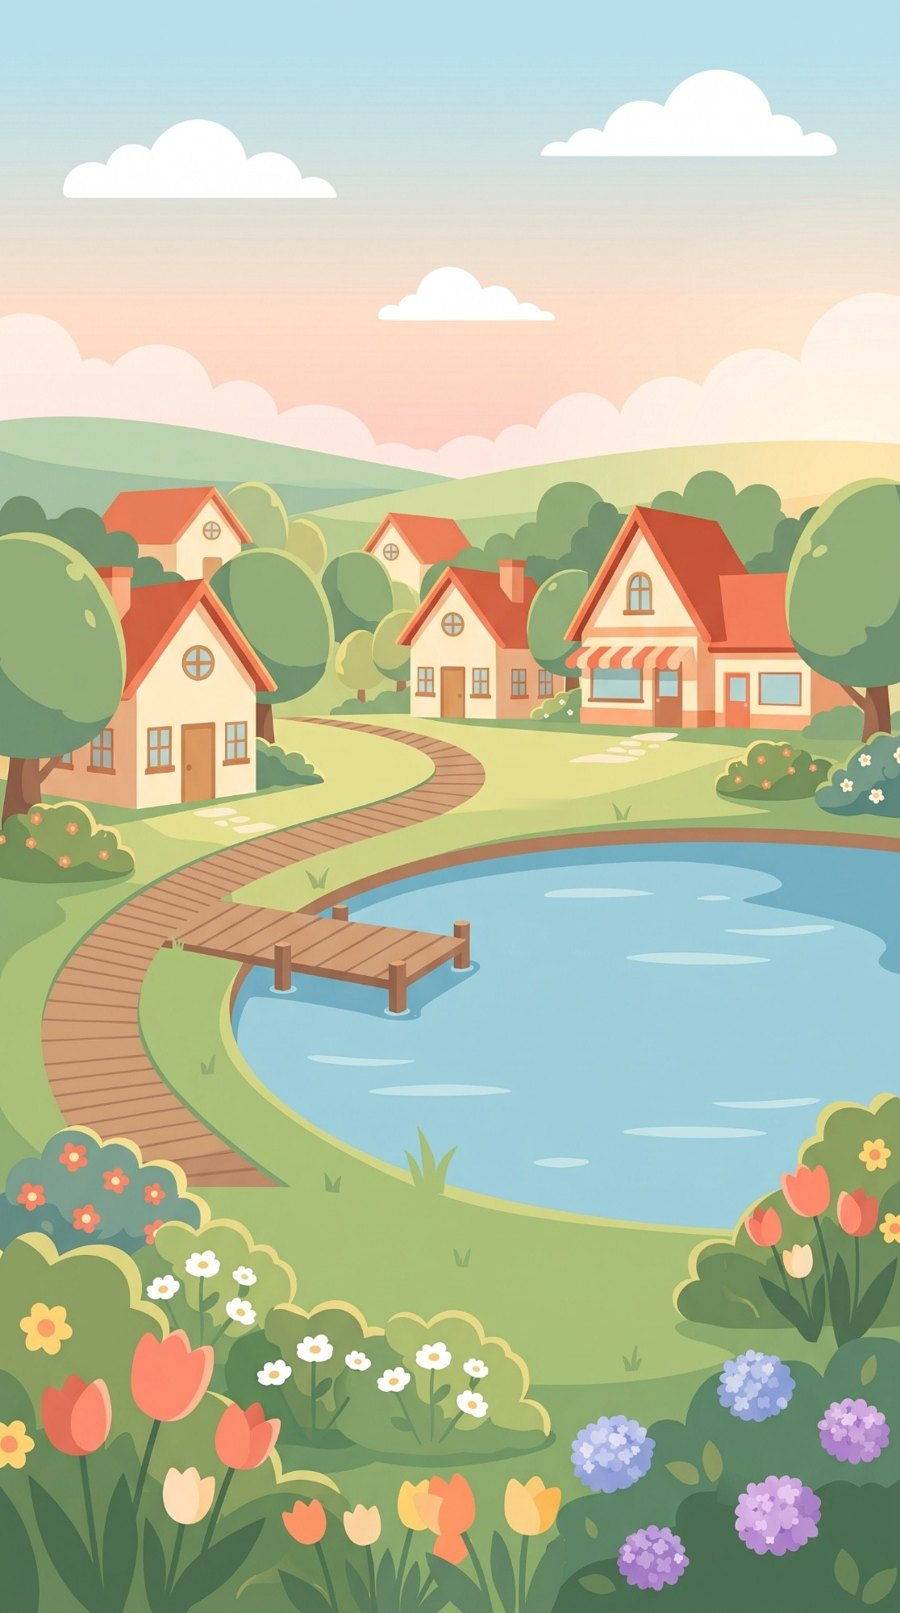
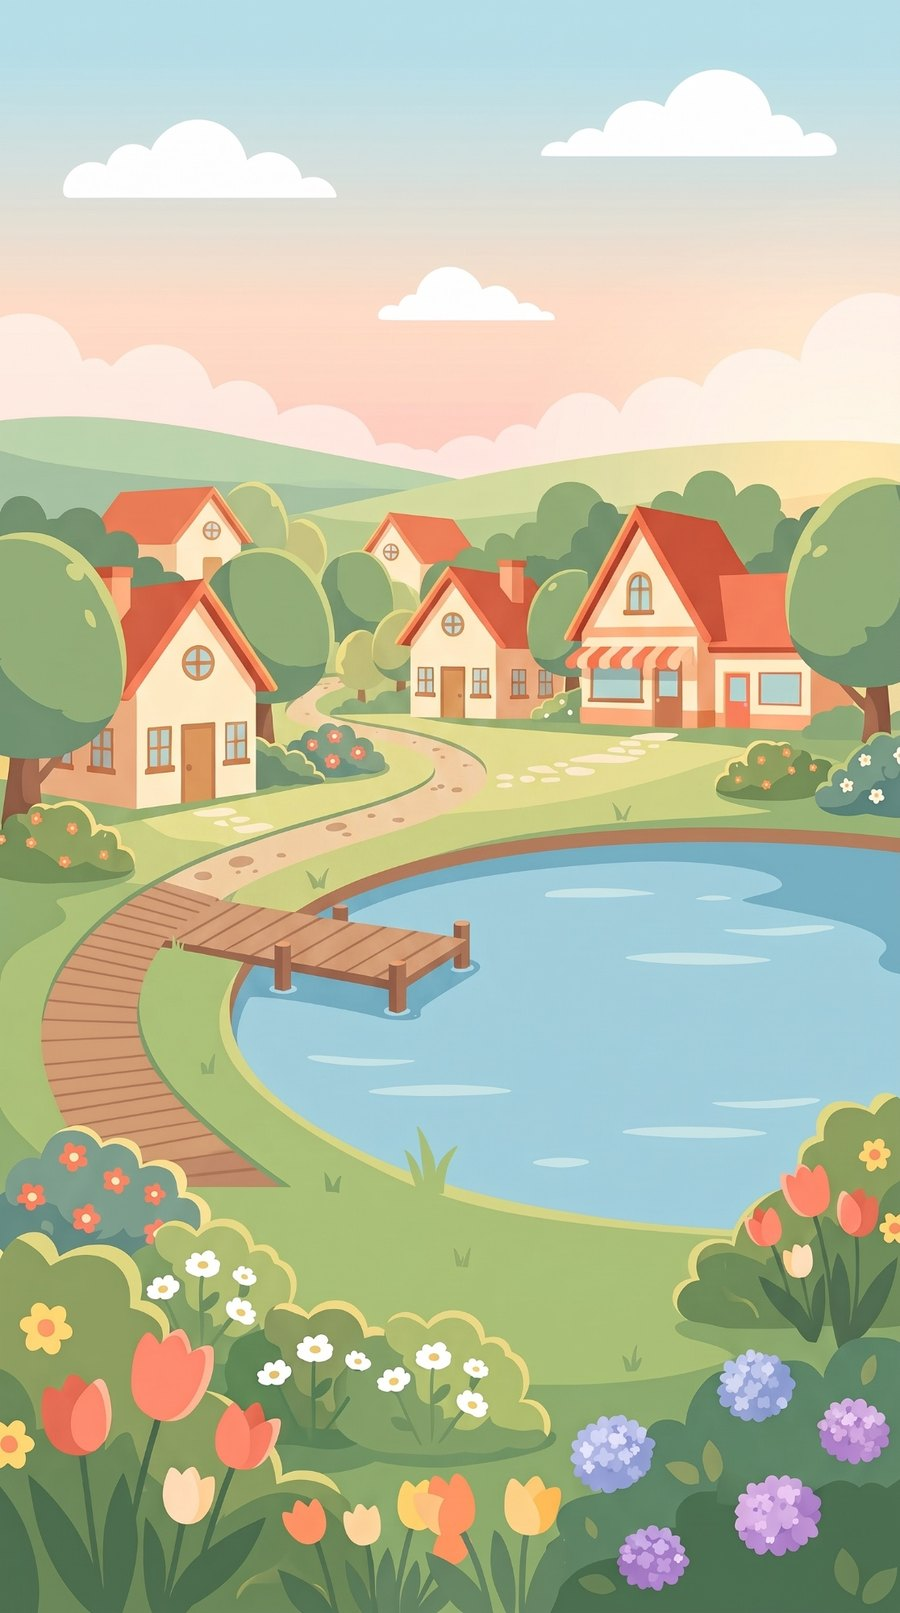
Illustrations du Drive : chat, crocodile, lapin, un œuf par animal et Sunnyville
- Découpe des planches de poses (9 poses par animal, contour blanc du lapin retiré)
- Chaque animal éclôt de son propre œuf (5 étapes détourées)
- Clairebourg : lac sans renard pour l'accueil, centre-ville pour l'onglet ville
- Sunnyville illustrée : elle devient disponible au choix
- CLAUDE.md et README à jour

Claude-Session: https://claude.ai/code/session_01Un3Qe5cpyhmR9wasp3TzLC

Changed region(s): [[0.1867, 0.403, 0.6533, 0.558]]

diff --git a/app/src/illustrations/registre.ts b/app/src/illustrations/registre.ts
@@ -30,35 +30,100 @@ const COMPAGNONS: Record<EspeceId, Images<Pose>> = {
     aventure: require('../../assets/compagnons/renard/aventure.png'),
     celebration: require('../../assets/compagnons/renard/celebration.png'),
   },
-  chat: {},
-  crocodile: {},
-  lapin: {},
+  chat: {
+    salut: require('../../assets/compagnons/chat/salut.png'),
+    neutre: require('../../assets/compagnons/chat/neutre.png'),
+    content: require('../../assets/compagnons/chat/content.png'),
+    excite: require('../../assets/compagnons/chat/excite.png'),
+    dort: require('../../assets/compagnons/chat/dort.png'),
+    reconfort: require('../../assets/compagnons/chat/reconfort.png'),
+    fier: require('../../assets/compagnons/chat/fier.png'),
+    aventure: require('../../assets/compagnons/chat/aventure.png'),
+    celebration: require('../../assets/compagnons/chat/celebration.png'),
+  },
+  crocodile: {
+    salut: require('../../assets/compagnons/crocodile/salut.png'),
+    neutre: require('../../assets/compagnons/crocodile/neutre.png'),
+    content: require('../../assets/compagnons/crocodile/content.png'),
+    excite: require('../../assets/compagnons/crocodile/excite.png'),
+    dort: require('../../assets/compagnons/crocodile/dort.png'),
+    reconfort: require('../../assets/compagnons/crocodile/reconfort.png'),
+    fier: require('../../assets/compagnons/crocodile/fier.png'),
+    aventure: require('../../assets/compagnons/crocodile/aventure.png'),
+    celebration: require('../../assets/compagnons/crocodile/celebration.png'),
+  },
+  lapin: {
+    salut: require('../../assets/compagnons/lapin/salut.png'),
+    neutre: require('../../assets/compagnons/lapin/neutre.png'),
+    content: require('../../assets/compagnons/lapin/content.png'),
+    excite: require('../../assets/compagnons/lapin/excite.png'),
+    dort: require('../../assets/compagnons/lapin/dort.png'),
+    reconfort: require('../../assets/compagnons/lapin/reconfort.png'),
+    fier: require('../../assets/compagnons/lapin/fier.png'),
+    aventure: require('../../assets/compagnons/lapin/aventure.png'),
+    celebration: require('../../assets/compagnons/lapin/celebration.png'),
+  },
 };
 
-/** Les états de l'œuf. Les 3 premiers sont communs à tous les animaux. */
-const OEUF = {
-  etats: [
-    require('../../assets/oeufs/oeuf-1-intact.png'),
-    require('../../assets/oeufs/oeuf-2-fissure.png'),
-    require('../../assets/oeufs/oeuf-3-craquele.png'),
-  ] as ImageSourcePropType[],
-  /** L'animal qui sort de l'œuf (propre à chaque animal). */
-  eclosion: {
-    renard: require('../../assets/oeufs/renard-eclosion.png'),
-  } as Images<EspeceId>,
-  /** L'animal juste né, au milieu des coquilles. */
-  ne: {
-    renard: require('../../assets/oeufs/renard-ne.png'),
-  } as Images<EspeceId>,
+/**
+ * L'œuf de chaque animal : 3 états à toucher (intact → fissuré → craquelé),
+ * puis l'éclosion (l'animal sort la tête) et la naissance (au milieu des coquilles).
+ */
+type Oeuf = { etats: ImageSourcePropType[]; eclosion?: ImageSourcePropType; ne?: ImageSourcePropType };
+const OEUFS: Record<EspeceId, Oeuf> = {
+  renard: {
+    etats: [
+      require('../../assets/oeufs/renard-1-intact.png'),
+      require('../../assets/oeufs/renard-2-fissure.png'),
+      require('../../assets/oeufs/renard-3-craquele.png'),
+    ],
+    eclosion: require('../../assets/oeufs/renard-eclosion.png'),
+    ne: require('../../assets/oeufs/renard-ne.png'),
+  },
+  chat: {
+    etats: [
+      require('../../assets/oeufs/chat-1-intact.png'),
+      require('../../assets/oeufs/chat-2-fissure.png'),
+      require('../../assets/oeufs/chat-3-craquele.png'),
+    ],
+    eclosion: require('../../assets/oeufs/chat-eclosion.png'),
+    ne: require('../../assets/oeufs/chat-ne.png'),
+  },
+  crocodile: {
+    etats: [
+      require('../../assets/oeufs/crocodile-1-intact.png'),
+      require('../../assets/oeufs/crocodile-2-fissure.png'),
+      require('../../assets/oeufs/crocodile-3-craquele.png'),
+    ],
+    eclosion: require('../../assets/oeufs/crocodile-eclosion.png'),
+    ne: require('../../assets/oeufs/crocodile-ne.png'),
+  },
+  lapin: {
+    etats: [
+      require('../../assets/oeufs/lapin-1-intact.png'),
+      require('../../assets/oeufs/lapin-2-fissure.png'),
+      require('../../assets/oeufs/lapin-3-craquele.png'),
+    ],
+    eclosion: require('../../assets/oeufs/lapin-eclosion.png'),
+    ne: require('../../assets/oeufs/lapin-ne.png'),
+  },
 };
 
-/** Illustrations des villes : « portrait » pour l'accueil, « paysage » pour les cartes. */
-const VILLES: Record<VilleId, Images<'portrait' | 'paysage'>> = {
+/**
+ * Illustrations des villes :
+ * « portrait » pour l'accueil, « paysage » pour les cartes, « centre » pour l'onglet de la ville.
+ */
+type FormatVille = 'portrait' | 'paysage' | 'centre';
+const VILLES: Record<VilleId, Images<FormatVille>> = {
   clairebourg: {
     portrait: require('../../assets/villes/clairebourg/portrait.jpg'),
     paysage: require('../../assets/villes/clairebourg/paysage.jpg'),
+    centre: require('../../assets/villes/clairebourg/centre.jpg'),
   },
-  sunnyville: {},
+  sunnyville: {
+    portrait: require('../../assets/villes/sunnyville/portrait.jpg'),
+    paysage: require('../../assets/villes/sunnyville/paysage.jpg'),
+  },
 };
 
 /** Objets de la boutique, par id (voir src/config/boutique.ts). */
@@ -72,9 +137,11 @@ export function imageCompagnon(espece: EspeceId, pose: Pose): ImageSourcePropTyp
   return images[pose] ?? images.neutre;
 }
 
-export const imagesOeuf = () => OEUF.etats;
-export const imageEclosion = (espece: EspeceId) => OEUF.eclosion[espece];
-export const imageNaissance = (espece: EspeceId) => OEUF.ne[espece] ?? imageCompagnon(espece, 'salut');
-export const imageVille = (ville: VilleId, format: 'portrait' | 'paysage') =>
+/** Les états de l'œuf à toucher ; un animal sans œuf dessiné emprunte celui du renard. */
+export const imagesOeuf = (espece: EspeceId) => (OEUFS[espece].etats.length ? OEUFS[espece] : OEUFS.renard).etats;
+export const imageEclosion = (espece: EspeceId) => OEUFS[espece].eclosion;
+export const imageNaissance = (espece: EspeceId) => OEUFS[espece].ne ?? imageCompagnon(espece, 'salut');
+/** Image d'une ville ; si le format demandé manque, on prend le plus proche. */
+export const imageVille = (ville: VilleId, format: FormatVille) =>
   VILLES[ville][format] ?? VILLES[ville].portrait ?? VILLES[ville].paysage;
 export const imageObjet = (id: string) => BOUTIQUE[id];

diff --git a/app/src/app/(demarrage)/oeuf.tsx b/app/src/app/(demarrage)/oeuf.tsx
@@ -29,9 +29,6 @@ import { compagnonParId } from '@/config/compagnons';
 import { couleurs, espace } from '@/config/theme';
 import { useApp } from '@/store/etat';
 
-/** Nombre de touchers avant l'éclosion (= nombre d'images d'œuf). */
-const TOUCHERS = imagesOeuf().length;
-
 type Phase = 'oeuf' | 'eclosion' | 'ne';
 
 const vibrer = (style: Haptics.ImpactFeedbackStyle) => {
@@ -42,6 +39,9 @@ export default function Oeuf() {
   const { etat } = useApp();
   const espece = etat.compagnon?.espece ?? 'renard';
   const infos = compagnonParId(espece);
+  // Chaque animal a son propre œuf ; nombre de touchers avant l'éclosion = nombre d'images d'œuf.
+  const etatsOeuf = imagesOeuf(espece);
+  const TOUCHERS = etatsOeuf.length;
 
   const [touchers, setTouchers] = useState(0);
   const [phase, setPhase] = useState<Phase>('oeuf');
@@ -103,7 +103,7 @@ export default function Oeuf() {
     transform: [{ translateY: flottement.value }, { rotate: `${rotation.value}deg` }, { scale: echelle.value }],
   }));
 
-  const imageOeuf = imagesOeuf()[Math.min(touchers, TOUCHERS - 1)];
+  const imageOeuf = etatsOeuf[Math.min(touchers, TOUCHERS - 1)];
   const eclosion = imageEclosion(espece);
   const naissance = imageNaissance(espece);
 
@@ -142,7 +142,7 @@ export default function Oeuf() {
             (eclosion ? (
               <Image source={eclosion} style={styles.image} contentFit="contain" />
             ) : (
-              <Image source={imagesOeuf()[TOUCHERS - 1]} style={styles.image} contentFit="contain" />
+              <Image source={etatsOeuf[TOUCHERS - 1]} style={styles.image} contentFit="contain" />
             ))}
           {phase === 'ne' &&
             (naissance ? (

diff --git a/app/src/app/(onglets)/ville.tsx b/app/src/app/(onglets)/ville.tsx
@@ -30,7 +30,7 @@ export default function Ville() {
   const { etat } = useApp();
   if (!etat.villeId || !etat.compagnon) return null;
   const ville = villeParId(etat.villeId);
-  const image = imageVille(ville.id, 'paysage');
+  const image = imageVille(ville.id, 'centre');
   const nom = etat.compagnon.nom;
   const dort = estEndormi(etat.rythme);
   const suivi = rechercheDuCompagnon(etat);
@@ -88,7 +88,7 @@ export default function Ville() {
 const styles = StyleSheet.create({
   contenu: { padding: espace.l, gap: espace.m, paddingBottom: espace.xxl },
   titre: { fontFamily: polices.titre, fontSize: 28, fontWeight: '800', color: couleurs.brun },
-  carte: { height: 210, borderRadius: arrondis.l, overflow: 'hidden', justifyContent: 'flex-end' },
+  carte: { height: 330, borderRadius: arrondis.l, overflow: 'hidden', justifyContent: 'flex-end' },
   compagnon: { alignItems: 'center', paddingBottom: 6 },
   souvenir: { backgroundColor: couleurs.carte, borderRadius: arrondis.m, borderWidth: 1, borderColor: couleurs.ligne, padding: espace.l, gap: 4 },
   souvenirTitre: { fontSize: 12, fontWeight: '800', color: couleurs.renardFonce, textTransform: 'uppercase', letterSpacing: 0.4 },

diff --git a/app/src/config/villes.ts b/app/src/config/villes.ts
@@ -2,7 +2,7 @@
  * LES VILLES
  * Une ville n'est pas un simple fond d'écran : c'est l'univers où le compagnon vit,
  * se déplace, visite des lieux et avance dans sa propre carrière.
- * Les images sont déclarées dans src/assets/registre.ts.
+ * Les images sont déclarées dans src/illustrations/registre.ts.
  */
 
 export type VilleId = 'clairebourg' | 'sunnyville';

diff --git a/CLAUDE.md b/CLAUDE.md
@@ -5,11 +5,12 @@
 - **Phase 0 (analyse et plan) : terminée et validée.** Stack choisie : **Expo (React Native)**, pour tester sur iPhone avec Expo Go, sans Mac.
 - **Maquette HTML** (`maquette/`) : première exploration visuelle, ne plus la faire évoluer. La référence est désormais l'app.
 - **App Expo** (`app/`) : application complète et fonctionnelle (données sur le téléphone) : démarrage, tâches, pièces, énergie, aventures, candidatures, Shop, ville, « J'ai décroché ! », aventure professionnelle, Compte, Ziggy+ (voir section 10).
-- Prochaines étapes : brancher les illustrations et animations Dimini, puis les vrais services (connexion, paiement App Store, notifications, compte en ligne).
+- **Illustrations du Drive branchées** : les 4 compagnons (9 poses chacun), l'œuf propre à chaque animal (5 étapes), Clairebourg (lac pour l'accueil, centre-ville pour l'onglet ville) et Sunnyville (place à la fontaine).
+- Prochaines étapes : les animations Dimini, puis les vrais services (connexion, paiement App Store, notifications, compte en ligne).
 
 Avant tout gros changement : proposer un plan et attendre ma validation (section 8).
 
-**Où se trouve le travail :** tout est sur la branche `claude/youthful-hopper-ls2cpi`. La branche `main` contient encore la toute première version de ce fichier, tant que la branche n'y est pas fusionnée.
+**Où se trouve le travail :** la branche `main` est la référence. Chaque nouvelle étape est préparée sur la branche `claude/youthful-hopper-ls2cpi`, puis fusionnée dans `main`.
 
 ---
 
@@ -101,7 +102,7 @@ Dans la navigation entre Candidatures et Clairebourg. Chapeaux, vêtements, acce
 ### 5.8 Les villes
 2 villes :
 - **Clairebourg** (campagne, nom écrit exactement ainsi) : petite ville française fictive, illustrée — boulangerie, librairie, studio, agence, café, parc.
-- **Sunnyville** (grande ville) : immeubles, bureaux, commerces, transports. Elle s'affiche « Bientôt » tant que son illustration n'existe pas ; ses lieux actuels (bureaux, start-up, agence de com, café du métro, parc) sont provisoires.
+- **Sunnyville** (grande ville) : immeubles, bureaux, commerces, transports. Illustrée (place à la fontaine, cafés, commerces) et disponible au choix ; ses lieux actuels (bureaux, start-up, agence de com, café du métro, parc) sont provisoires. Les panneaux de son illustration sont en anglais (« To the Market », « City Library ») : à franciser dans une prochaine version de l'image.
 L'architecture permet d'ajouter d'autres villes plus tard dans `app/src/config/villes.ts`.
 
 **Une ville n'est pas un fond d'écran.** Le compagnon doit pouvoir s'y déplacer, visiter des lieux, vivre des événements, rencontrer des personnages et progresser professionnellement, **en miroir de l'utilisateur** : l'utilisateur a un entretien → le compagnon aussi, dans un lieu de sa ville ; l'utilisateur décroche un poste → le compagnon aussi, avec une grande célébration.
@@ -187,7 +188,7 @@ Chaque tâche rapporte des **pièces** (valeurs ci-dessous, réglables dans `app
 ## 10. Architecture technique (app/)
 - **Expo SDK 57, Expo Router, TypeScript.** Routes dans `app/src/app/` : `(demarrage)/` (présentation, connexion, onboarding), `(onglets)/` (accueil, candidatures, boutique = Shop, ville, compte), `candidature/[id]`, `compte/*` (profil, parametres, confidentialite, portefeuille), et les fenêtres `aventure`, `decroche`, `aventure-pro`, `nouvelle-candidature`, `ziggy-plus`.
 - **Réglages** dans `app/src/config/` : `theme`, `taches`, `energie`, `aventures`, `compagnons`, `villes`, `boutique`, `abonnement`, `candidatures`.
-- **Illustrations** : un seul registre, `app/src/illustrations/registre.ts`. Fichiers dans `app/assets/` (`compagnons/<animal>/<pose>.png`, `oeufs/`, `villes/<ville>/portrait.jpg` et `paysage.jpg`). Une image manquante affiche un visuel de secours. Les animations définitives (Lottie ou Rive) se brancheront dans `app/src/components/Compagnon.tsx`.
+- **Illustrations** : un seul registre, `app/src/illustrations/registre.ts`. Fichiers dans `app/assets/` : `compagnons/<animal>/<pose>.png` ; `oeufs/<animal>-1-intact.png`, `-2-fissure`, `-3-craquele`, `-eclosion`, `-ne` ; `villes/<ville>/portrait.jpg` (accueil), `paysage.jpg` (cartes) et `centre.jpg` (onglet ville, facultatif). Une image manquante affiche un visuel de secours. Les animations définitives (Lottie ou Rive) se brancheront dans `app/src/components/Compagnon.tsx`.
 - **Données** : un seul état (`app/src/store/`), sauvegardé sur le téléphone ; les anciennes sauvegardes sont migrées automatiquement. Logique métier dans `app/src/logique/` (tâches du jour, vie du compagnon, rythme, dates).
 - **Services** (`app/src/services/`) : connexion (bouchons à remplacer), abonnement (achat App Store à brancher), compte et RGPD (export, suppression), futur simulateur d'entretien.
 - Avant de dire qu'une étape est terminée : `npx tsc --noEmit` et `npx eslint src` sans erreur, et parcours testé.

diff --git a/app/README.md b/app/README.md
@@ -47,8 +47,8 @@ Onglets : **Accueil** · **Candidatures** · **Shop** · **Clairebourg** (la vil
 
 1. Dépose les fichiers dans `assets/` :
    - `assets/compagnons/<animal>/<pose>.png` (poses : salut, neutre, content, excite, dort, reconfort, fier, aventure, celebration)
-   - `assets/oeufs/<animal>-eclosion.png` et `assets/oeufs/<animal>-ne.png`
-   - `assets/villes/<ville>/portrait.jpg` (accueil) et `paysage.jpg` (cartes)
+   - `assets/oeufs/<animal>-1-intact.png`, `-2-fissure.png`, `-3-craquele.png` (les 3 touchers), `-eclosion.png` et `-ne.png`
+   - `assets/villes/<ville>/portrait.jpg` (accueil), `paysage.jpg` (cartes) et, si besoin, `centre.jpg` (onglet de la ville)
 2. Déclare-les dans `src/illustrations/registre.ts`, dans le bloc correspondant.
 
 Tant qu'une image manque, l'app affiche un visuel de secours (emoji et couleur) : rien ne casse.
